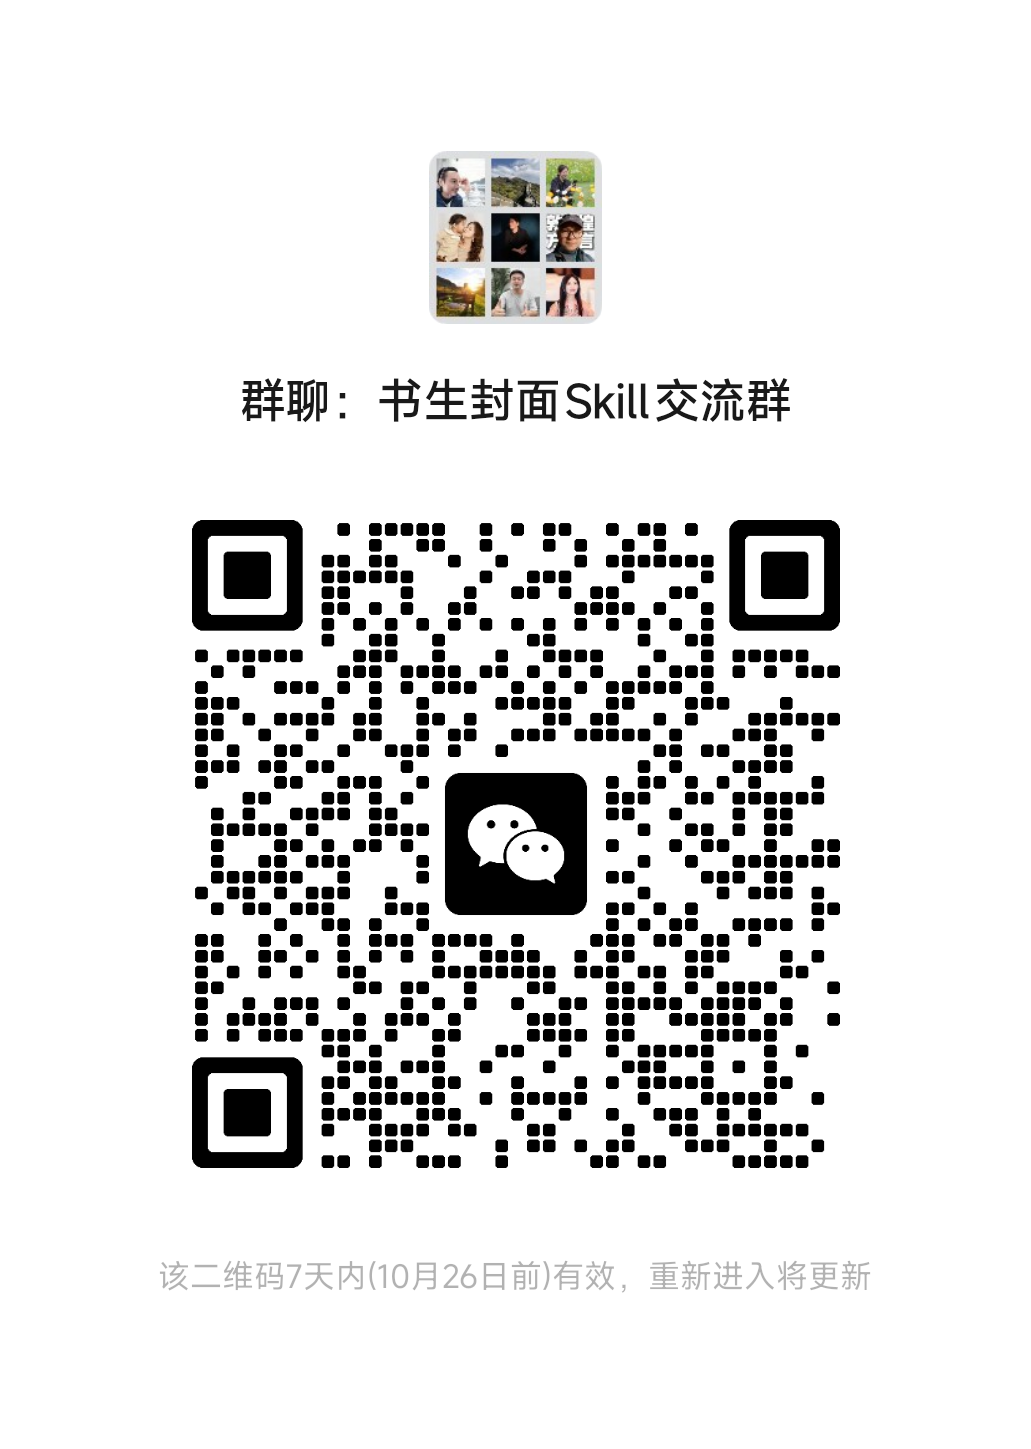
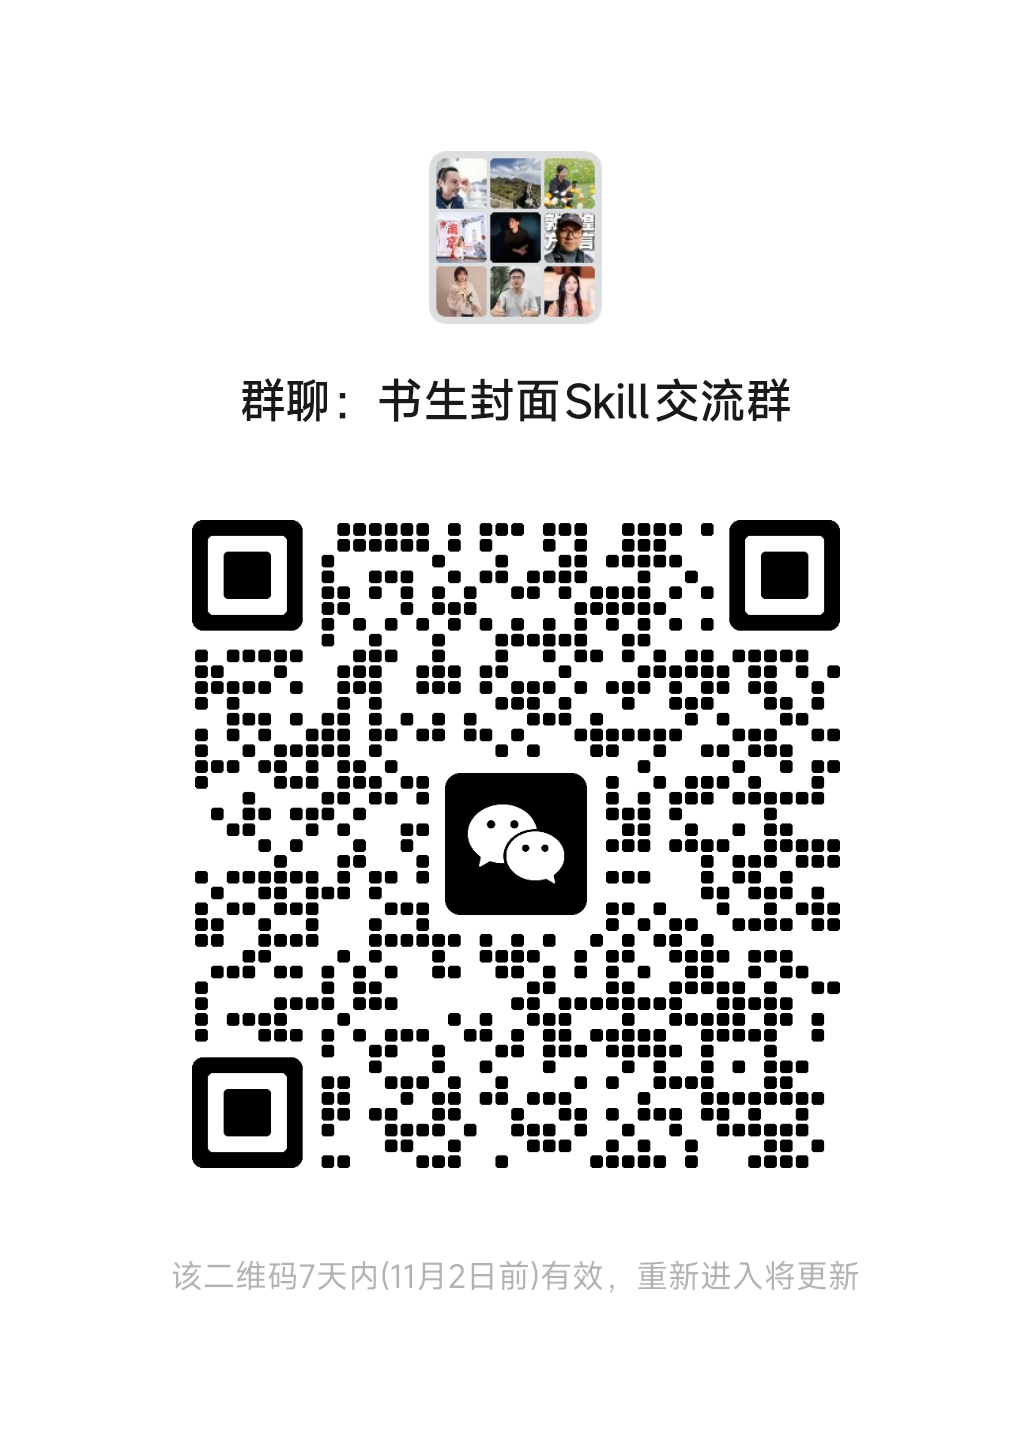
Update community QR code valid before 2026-11-02

diff --git a/README.md b/README.md
@@ -63,4 +63,4 @@
 
 ![书生封面Skill交流群](contact-group.png)
 
-当前群码标注 **2026年10月26日前有效**（2026年10月19日更新）。失效时请到[工具与教程合集](https://my.feishu.cn/wiki/SAsPwn7j9iAZxkkJBWVcM80OnSd)查看最新入口。使用问题可在 Issues 中附平台、模型及具体问题。当前使用公共交流群，俱乐部入口后续另行更新。
+当前群码标注 **2026年11月2日前有效**（2026年10月26日更新）。失效时请到[工具与教程合集](https://my.feishu.cn/wiki/SAsPwn7j9iAZxkkJBWVcM80OnSd)查看最新入口。使用问题可在 Issues 中附平台、模型及具体问题。当前使用公共交流群，俱乐部入口后续另行更新。
